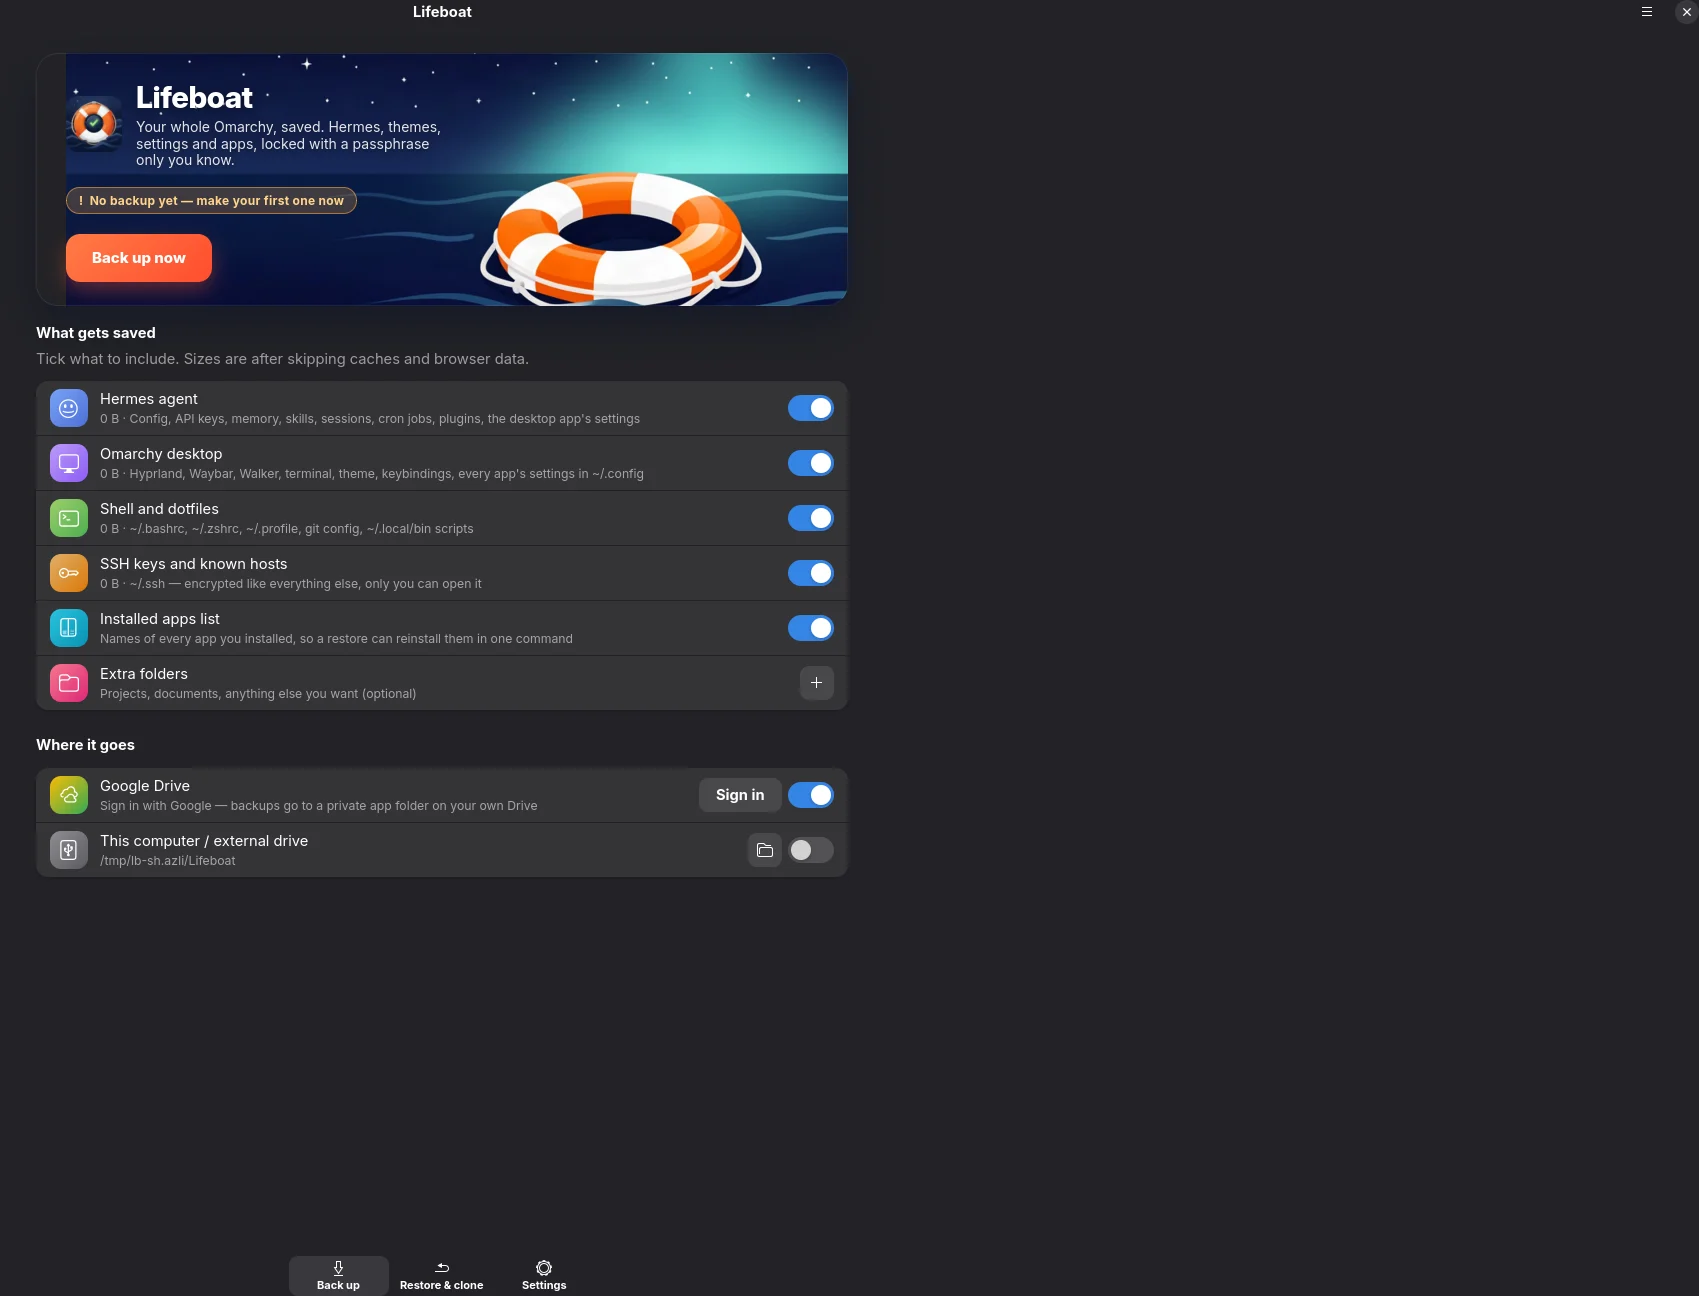
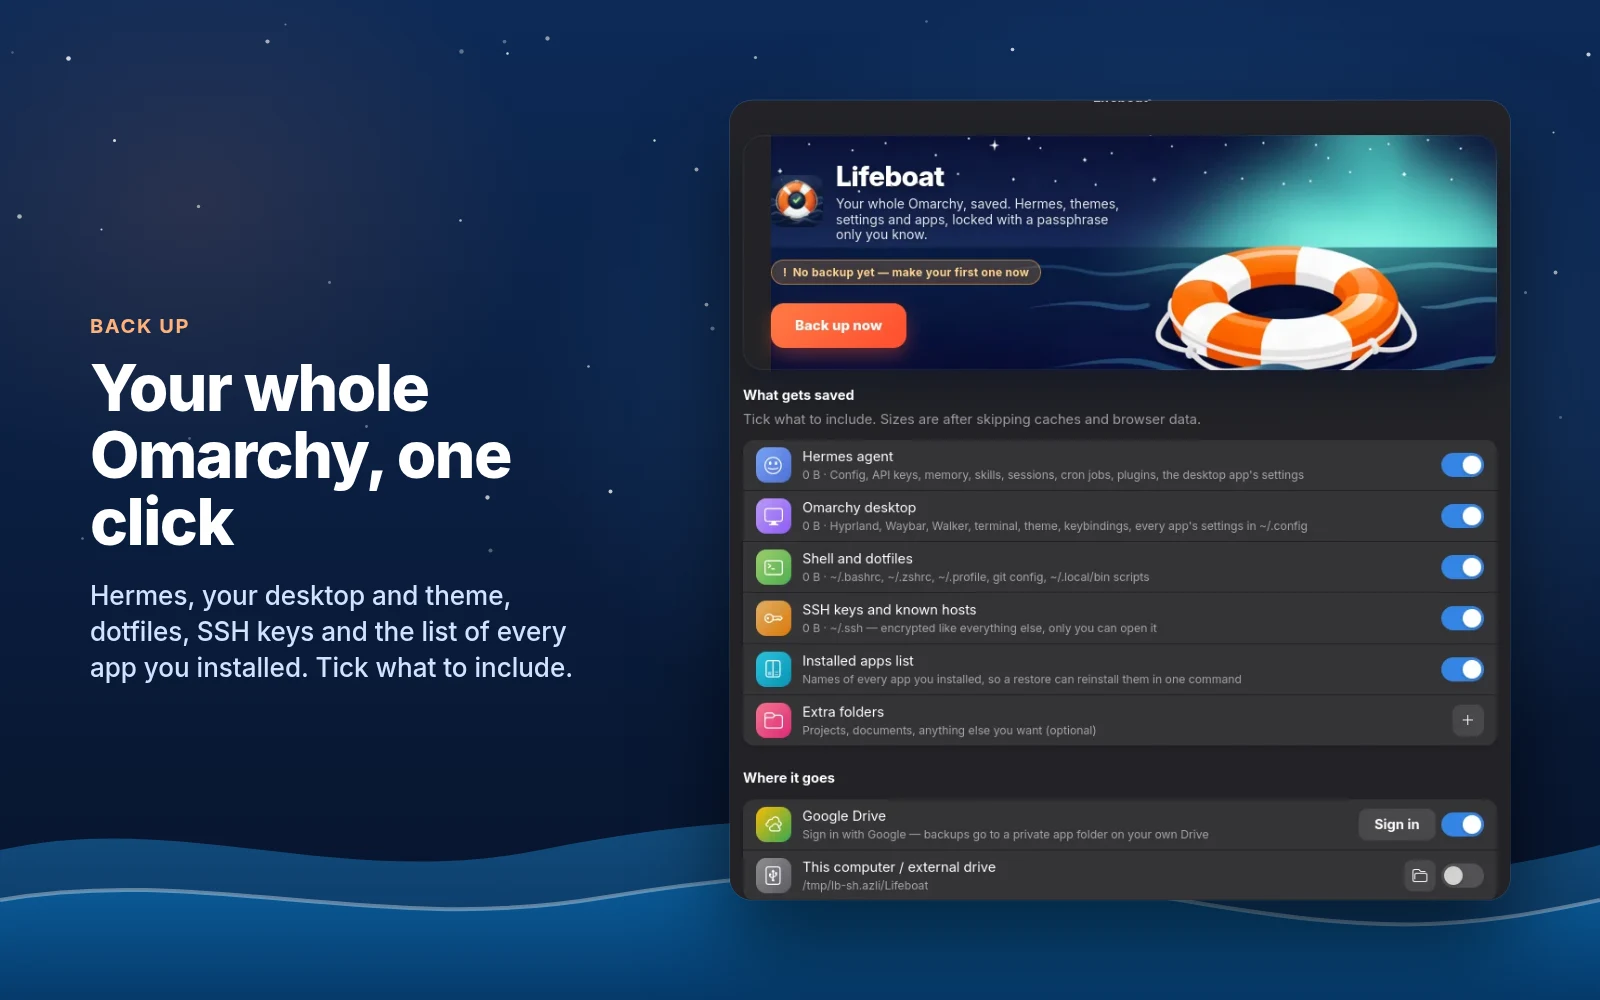
Lifeboat screenshots: app screens cropped tight and shown large on the night-sea background with captions (no more tiny screens in empty frames)

diff --git a/promo/lifeboat/shots.html b/promo/lifeboat/shots.html
@@ -1,0 +1,54 @@
+<!doctype html>
+<html><head><meta charset="utf-8">
+<style>
+  html, body { margin: 0; width: 1600px; height: 1000px; overflow: hidden; font-family: Inter, -apple-system, system-ui, sans-serif; }
+  .bg { position: absolute; inset: 0;
+        background: radial-gradient(900px 600px at 72% 40%, rgba(74,163,255,.28), transparent 70%),
+                    radial-gradient(500px 400px at 12% 20%, rgba(255,140,80,.12), transparent 70%),
+                    linear-gradient(180deg, #0d2a57 0%, #0a1d3d 55%, #06122a 100%); }
+  .shade { display: none; }
+  .waves { position: absolute; left: 0; right: 0; bottom: 0; height: 260px; }
+  .stars i { position: absolute; width: 3px; height: 3px; border-radius: 50%; background: #fff; }
+  .cap { position: absolute; left: 90px; top: 50%; transform: translateY(-50%); width: 520px; color: #fff; }
+  .cap .k { display: inline-block; font-size: 20px; font-weight: 700; letter-spacing: .08em; color: #ffb27a; text-transform: uppercase; margin-bottom: 16px; }
+  .cap h1 { font-size: 64px; line-height: 1.05; font-weight: 800; letter-spacing: -1.5px; margin: 0 0 22px; }
+  .cap p { font-size: 26px; line-height: 1.4; color: #d3e2ff; margin: 0; font-weight: 500; }
+  .shot { position: absolute; right: 90px; top: 50%; transform: translateY(-50%); border-radius: 22px; overflow: hidden;
+          box-shadow: 0 40px 90px rgba(0,0,0,.6), 0 0 0 1px rgba(255,255,255,.14); background: #222226; }
+  .shot img { display: block; }
+</style></head>
+<body>
+  <div class="bg"></div>
+  <div class="stars" id="stars"></div>
+  <svg class="waves" viewBox="0 0 1600 260" preserveAspectRatio="none">
+    <defs><linearGradient id="a" x1="0" y1="0" x2="0" y2="1"><stop offset="0" stop-color="#1b78b8"/><stop offset="1" stop-color="#0a4a86"/></linearGradient>
+          <linearGradient id="b" x1="0" y1="0" x2="0" y2="1"><stop offset="0" stop-color="#0b5e9c"/><stop offset="1" stop-color="#063a6b"/></linearGradient></defs>
+    <path d="M0 110 C 180 70 340 150 540 110 S 900 70 1080 110 S 1420 150 1600 105 V260 H0Z" fill="url(#a)" opacity=".55"/>
+    <path d="M0 160 C 200 125 380 195 600 158 S 980 125 1180 160 S 1460 190 1600 160 V260 H0Z" fill="url(#b)"/>
+    <path d="M0 160 C 200 125 380 195 600 158 S 980 125 1180 160 S 1460 190 1600 160" fill="none" stroke="#fff" stroke-opacity=".35" stroke-width="4"/>
+  </svg>
+  <div class="cap"><span class="k" id="k"></span><h1 id="h"></h1><p id="p"></p></div>
+  <div class="shot"><img id="img"></div>
+<script>
+const S = {
+  backup:   ["Back up", "Your whole Omarchy, one click", "Hermes, your desktop and theme, dotfiles, SSH keys and the list of every app you installed. Tick what to include.", 820],
+  restore:  ["Restore & clone", "Back in minutes, even on a new PC", "Pick a backup from your Google Drive or a file, and Lifeboat puts everything back.", 300],
+  settings: ["Automatic & private", "Backups on a timer, locked with your passphrase", "AES-256 encryption on your computer before anything is uploaded. Google only ever sees a locked file.", 560],
+  terms:    ["Clear and honest", "You know exactly what it does", "Free and open source (MIT), with a plain-language disclaimer before first use.", 760],
+};
+const n = location.hash.slice(1), s = S[n];
+let seed = 11; const rnd = () => (seed = (seed * 9301 + 49297) % 233280) / 233280;
+document.getElementById("stars").innerHTML = Array.from({ length: 60 }, () =>
+  `<i style="left:${(rnd() * 1600).toFixed(0)}px;top:${(rnd() * 560).toFixed(0)}px;opacity:${(0.25 + rnd() * 0.6).toFixed(2)};transform:scale(${(0.6 + rnd()).toFixed(2)})"></i>`).join("");
+document.getElementById("k").textContent = s[0];
+document.getElementById("h").textContent = s[1];
+document.getElementById("p").textContent = s[2];
+const img = document.getElementById("img");
+img.src = `/tmp/lbs/${n}.png`;
+img.onload = () => {   // fit inside a 780 x 820 box on the right, never upscaled more than 1.6x
+  const sc = Math.min(780 / img.naturalWidth, 820 / img.naturalHeight, 1.6);
+  img.style.width = img.naturalWidth * sc + "px"; img.style.height = img.naturalHeight * sc + "px";
+  document.title = "ready";
+};
+</script>
+</body></html>
